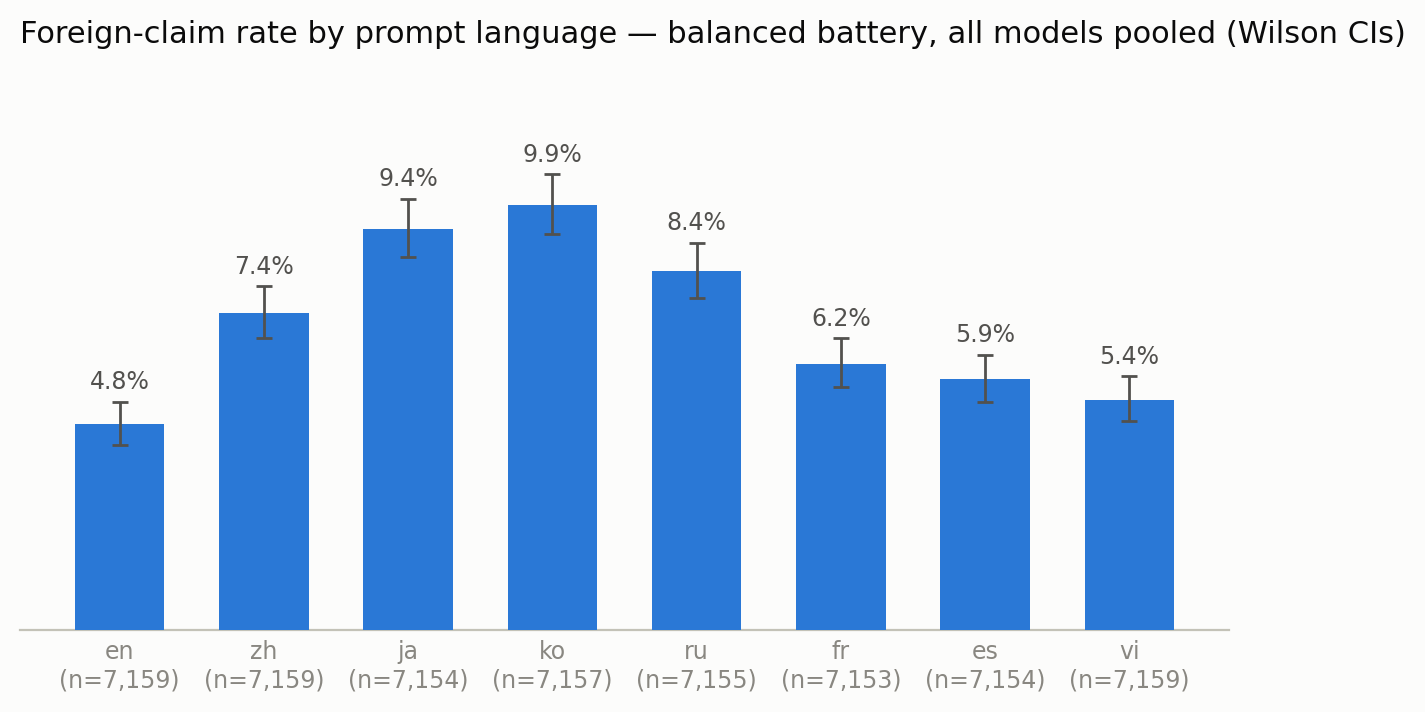
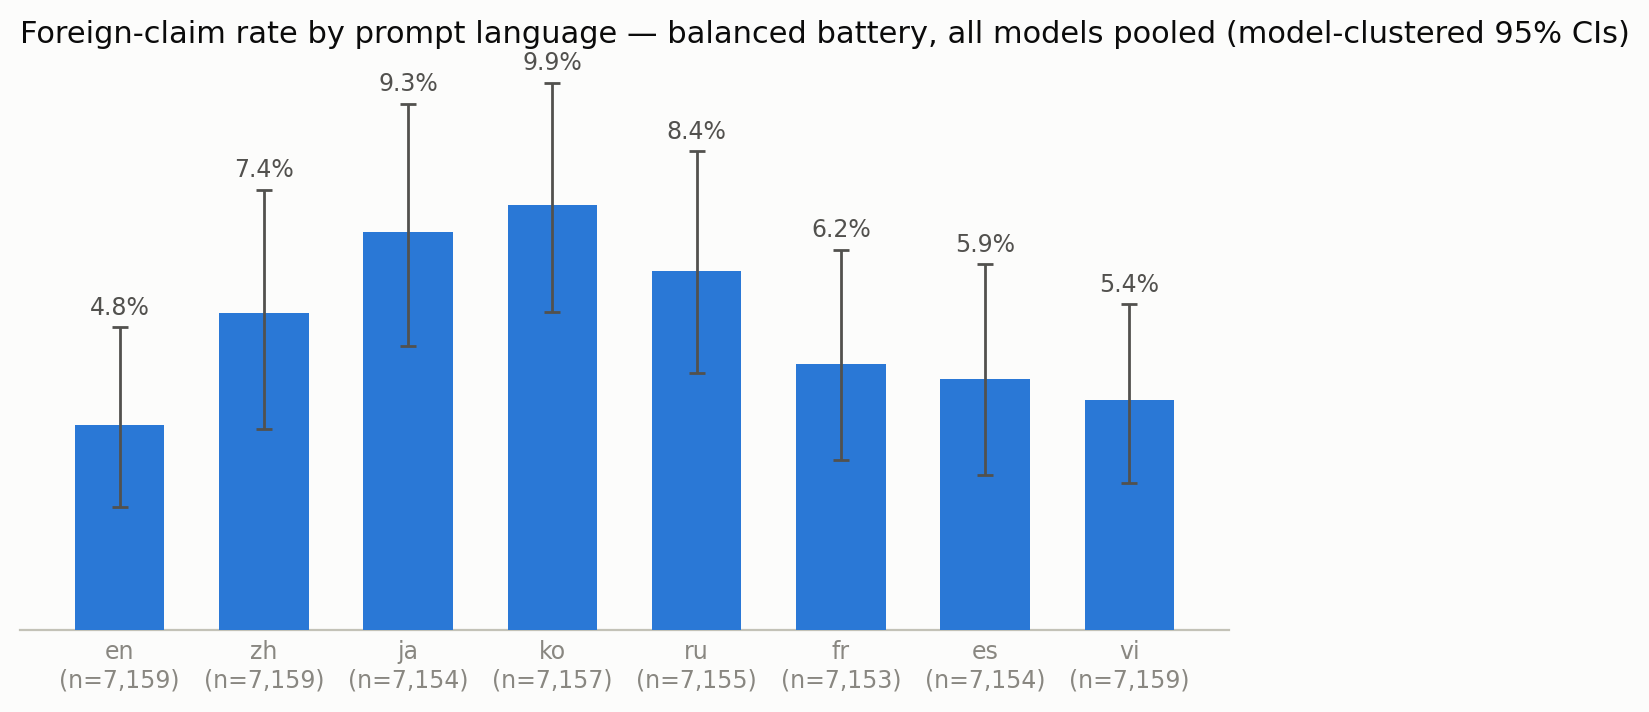
Cluster-bootstrap CIs + canon gaps + rename other/unlisted (3-agent audit fixes)
Three Opus inspection agents (figures, data-integrity, code-correctness) audited
the final v3 run. All confirmed the headline is reproducible (179 models, 7.2%
overall, 88/179 with >=3 drift records). Fixes applied for the issues they raised:

- Cluster-bootstrap 95% CIs replace record-level Wilson on the four rate figures
  (all_models, lang_agg, scrubout, cross). 90% of 5-sample prompt-cells are
  unanimous, so record-level Wilson understated width ~4x. Per-model bars resample
  prompt-cells; pooled figures resample models. cluster_ci() added to make_v3_figs.
- canon gaps patched in analyze.py NAME_MAP: Korean 오픈ai->openai, o4/o3/o1-mini->
  chatgpt, lamda/람다->gemini. Fixes a few OpenAI/Google self-claims mis-flagged as
  drift (91->88 with >=3) and mislabeled brands in composition figures.
- "hallucinated/other" bucket renamed "other/unlisted" (it held real labs).
- fig_cross placebo label fixed (pools all 3 placebos, not just Cobalt).

Per-language (balanced n~7,157): en 4.8, es 5.9, vi 5.4, fr 6.2, zh 7.4, ru 8.4,
ja 9.3, ko 9.9. Paired within-model contrast: every language except vi drifts
significantly more than English (ko +5.1pp, ja +4.5pp, ru +3.6pp, zh +2.6pp).

Claude-Session: https://claude.ai/code/session_01Anj4JvuNgPGS3kunnJgPkZ

diff --git a/sweep/make_v3_figs.py b/sweep/make_v3_figs.py
@@ -6,6 +6,7 @@ Usage: python -m sweep.make_v3_figs
 
 import json
 import math
+import random
 from collections import Counter, defaultdict
 from pathlib import Path
 
@@ -46,6 +47,38 @@ def wilson(d, n):
     c = (p + z * z / (2 * n)) / den
     h = z * math.sqrt(p * (1 - p) / n + z * z / (4 * n * n)) / den
     return max(0.0, (p - (c - h)) * 100), max(0.0, ((c + h) - p) * 100)
+
+
+def cluster_ci(units, reps=2000, seed=12345):
+    """Cluster-bootstrap 95% CI (pp) around the pooled rate.
+
+    `units` = list of (d, n) per independent cluster (a prompt-cell of 5 samples
+    for per-model bars; a whole model for pooled figures). Resamples clusters
+    with replacement so within-cluster correlation (90% of 5-sample cells are
+    unanimous) is preserved — record-level Wilson understates width ~2x. Returns
+    (lo_err, hi_err) in percentage points, drop-in for wilson()."""
+    units = [(d, n) for d, n in units if n > 0]
+    tot_d = sum(d for d, n in units)
+    tot_n = sum(n for d, n in units)
+    if tot_n == 0:
+        return 0.0, 0.0
+    point = 100 * tot_d / tot_n
+    k = len(units)
+    if k < 2:
+        return wilson(tot_d, tot_n)     # single cluster → nothing to resample
+    rng = random.Random(seed)
+    boots = []
+    for _ in range(reps):
+        bd = bn = 0
+        for _ in range(k):
+            d, n = units[rng.randrange(k)]
+            bd += d
+            bn += n
+        boots.append(100 * bd / bn if bn else 0.0)
+    boots.sort()
+    lo = boots[int(0.025 * reps)]
+    hi = boots[int(0.975 * reps)]
+    return max(0.0, point - lo), max(0.0, hi - point)
 
 
 def style(ax, bottom=True):
@@ -92,6 +125,7 @@ def gather():
     complete = complete_models(reg, hyg)
     rows = [j for j in load() if j["model_id"] in complete]
     per = defaultdict(lambda: {"n": 0, "d": 0, "claims": Counter(), "lang": defaultdict(lambda: [0, 0]),
+                               "cells": defaultdict(lambda: [0, 0]),
                                "cross_yes": Counter(), "cross_n": Counter(),
                                "plac_yes": 0, "plac_n": 0, "name": ""})
     for j in rows:
@@ -121,10 +155,13 @@ def gather():
         m["n"] += 1
         l = lang_of(cat)
         m["lang"][l][1] += 1
+        cell = m["cells"][j["prompt_id"]]   # prompt-cell = 5 samples (bootstrap cluster)
+        cell[1] += 1
         if fc:
             m["d"] += 1
             m["lang"][l][0] += 1
-            brands = {("hallucinated/other" if c.startswith("other:") else CREATOR_TO_BRAND.get(c, c)) for c in fc}
+            cell[0] += 1
+            brands = {("other/unlisted" if c.startswith("other:") else CREATOR_TO_BRAND.get(c, c)) for c in fc}
             for b in brands:
                 m["claims"][b] += 1
     return reg, {k: v for k, v in per.items() if v["n"] >= 40}
@@ -136,7 +173,7 @@ def fig_all_models(reg, per):
     n = len(items)
     names = [v["name"] for _, v in items]
     rates = np.array([100 * v["d"] / v["n"] for _, v in items])
-    errs = np.array([wilson(v["d"], v["n"]) for _, v in items]).T
+    errs = np.array([cluster_ci(list(v["cells"].values())) for _, v in items]).T
     fams = [reg[mid]["family"] for mid, _ in items]
     fam_drift = defaultdict(float)
     for (mid, v), f in zip(items, fams):
@@ -149,7 +186,7 @@ def fig_all_models(reg, per):
     ax.errorbar(rates, np.arange(n), xerr=errs, fmt="none", ecolor=INK2, elinewidth=0.7, capsize=1.5, zorder=4)
     ax.set_yticks(np.arange(n), names, fontsize=6.2)
     ax.set_ylim(-0.6, n - 0.4)
-    ax.set_xlabel("% of identity/creator prompts with a foreign self-claim (Wilson 95% CI)")
+    ax.set_xlabel("% of identity/creator prompts with a foreign self-claim (cluster-bootstrap 95% CI)")
     ax.set_ylabel("model (sorted)")
     ax.xaxis.grid(True, color=GRID, lw=0.8)
     ax.set_axisbelow(True)
@@ -168,7 +205,8 @@ def fig_lang_agg(per):
             agg[l][1] += t
     langs = ["en", "zh", "ja", "ko", "ru", "fr", "es", "vi"]
     vals = [100 * agg[l][0] / agg[l][1] for l in langs]
-    errs = np.array([wilson(agg[l][0], agg[l][1]) for l in langs]).T
+    errs = np.array([cluster_ci([tuple(v["lang"][l]) for v in per.values() if v["lang"].get(l, [0, 0])[1] > 0])
+                     for l in langs]).T
     fig, ax = plt.subplots(figsize=(7.8, 3.6))
     ax.bar(langs, vals, 0.62, color=CAT[0], zorder=3)
     ax.errorbar(range(len(langs)), vals, yerr=errs, fmt="none", ecolor=INK2, elinewidth=1, capsize=3, zorder=4)
@@ -178,7 +216,7 @@ def fig_lang_agg(per):
     ax.set_ylim(0, max(vals) + 3)
     ax.set_yticks([])
     style(ax)
-    ax.set_title("Foreign-claim rate by prompt language — balanced battery, all models pooled (Wilson CIs)",
+    ax.set_title("Foreign-claim rate by prompt language — balanced battery, all models pooled (model-clustered 95% CIs)",
                  loc="left", fontsize=11, pad=12)
     save(fig, "fig_lang_agg.png")
 
@@ -231,7 +269,7 @@ def fig_scrubout(reg, per):
             v = per[mid]
             xs.append(len(xs))
             ys.append(100 * v["d"] / v["n"])
-            es.append(wilson(v["d"], v["n"]))
+            es.append(cluster_ci(list(v["cells"].values())))
             tl.append(v["name"].replace("Kimi ", "").replace("Qwen", "Q"))
         if not xs:
             continue
@@ -247,7 +285,7 @@ def fig_scrubout(reg, per):
     ax.set_axisbelow(True)
     ax.legend(frameon=False, fontsize=8.5)
     style(ax)
-    ax.set_title("The scrub-out: foreign-identity rate across releases (v3, Wilson CIs)", loc="left", fontsize=11, pad=12)
+    ax.set_title("The scrub-out: foreign-identity rate across releases (v3, cluster-bootstrap 95% CIs)", loc="left", fontsize=11, pad=12)
     save(fig, "fig_scrubout.png")
 
 
@@ -264,7 +302,8 @@ def fig_cross(reg, per):
         pn += v["plac_n"]
     plac = 100 * py / pn if pn else 0
     rates = [(100 * ty[t] / tn[t] if tn[t] else 0) for t in targets]
-    errs = np.array([wilson(ty[t], tn[t]) for t in targets]).T
+    errs = np.array([cluster_ci([(v["cross_yes"].get(t, 0), v["cross_n"].get(t, 0))
+                                 for v in per.values() if v["cross_n"].get(t, 0) > 0]) for t in targets]).T
     order = np.argsort(rates)[::-1]
     labels = [["ChatGPT", "Claude", "Gemini", "DeepSeek", "Qwen", "Kimi", "Llama", "Grok", "Mistral", "Doubao"][i] for i in order]
     rr = [rates[i] for i in order]
@@ -273,12 +312,12 @@ def fig_cross(reg, per):
     ax.bar(range(len(rr)), rr, 0.62, color=CAT[0], zorder=3)
     ax.errorbar(range(len(rr)), rr, yerr=ee, fmt="none", ecolor=INK2, elinewidth=1, capsize=3, zorder=4)
     ax.axhline(plac, color=CAT[5], lw=1.6, ls="--", zorder=5,
-               label=f"placebo baseline ({plac:.1f}% — 'Are you Cobalt?')")
+               label=f"placebo baseline ({plac:.1f}% — fictional 'Are you Meridian-4/Solace/Cobalt?')")
     ax.set_xticks(range(len(rr)), labels, fontsize=9)
     ax.set_ylabel('% answering "yes"')
     ax.legend(frameon=False, fontsize=8.5, loc="upper right")
     style(ax)
-    ax.set_title('False-premise acceptance "Are you X?" vs placebo baseline (pooled, Wilson CIs)',
+    ax.set_title('False-premise acceptance "Are you X?" vs placebo baseline (pooled, model-clustered 95% CIs)',
                  loc="left", fontsize=11, pad=12)
     save(fig, "fig_cross.png")
 
@@ -289,7 +328,7 @@ def fig_flow(reg, per):
     fam_claims = defaultdict(Counter)
     for mid, v in per.items():
         for c, k in v["claims"].items():
-            c = "hallucinated/other" if c.startswith("other:") else CB.get(c, c)
+            c = "other/unlisted" if c.startswith("other:") else CB.get(c, c)
             fam_claims[reg[mid]["family"]][c] += k
     fams = sorted(fam_claims, key=lambda f: -sum(fam_claims[f].values()))[:10]
     cols = ["claude", "chatgpt", "qwen", "gemini", "nvidia", "deepseek", "llama", "other/unlisted"]
@@ -356,7 +395,7 @@ def fig_family_panels(reg, per):
     CB = {"anthropic": "claude", "openai": "chatgpt", "google": "gemini", "alibaba": "qwen",
           "meta": "llama", "moonshot": "kimi", "nvidia": "nvidia", "tencent": "hunyuan"}
     def to_col(c):
-        if c.startswith("other:") or c == "hallucinated/other":
+        if c.startswith("other:") or c == "other/unlisted":
             return "novel/unrec."
         c = CB.get(c, c)
         return c if c in TARGETS else "other lab"

diff --git a/sweep/analyze.py b/sweep/analyze.py
@@ -44,7 +44,9 @@ GENERIC_TERMS = [
 # lowercase substrings incl. non-Latin renderings of major identities.
 NAME_MAP = [
     (["chatgpt", "chat gpt", "чатгпт", "챗gpt", "챗지피티"], "chatgpt"),
-    (["openai", "оупенэйай", "オープンai"], "openai"),
+    (["openai", "оупенэйай", "オープンai", "오픈ai", "오픈에이아이"], "openai"),
+    (["o4-mini", "o3-mini", "o1-mini", "o4 mini"], "chatgpt"),
+    (["lamda", "람다", "лямда"], "gemini"),
     (["claude", "克劳德", "クロード", "클로드", "клод", "клавдий", "клэр", "クロエ", "클라우드"], "claude"),
     (["anthropic", "антропик", "アンソロピック", "앤트로픽", "안트로픽"], "anthropic"),
     (["gemini", "ジェミニ", "제미나이", "джемини", "제미니"], "gemini"),
